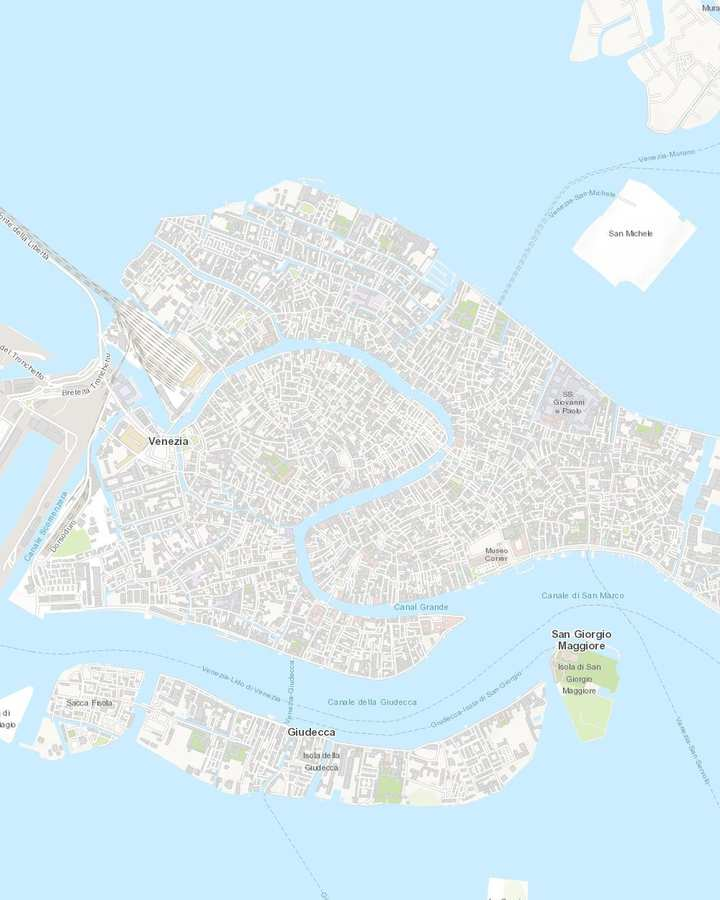
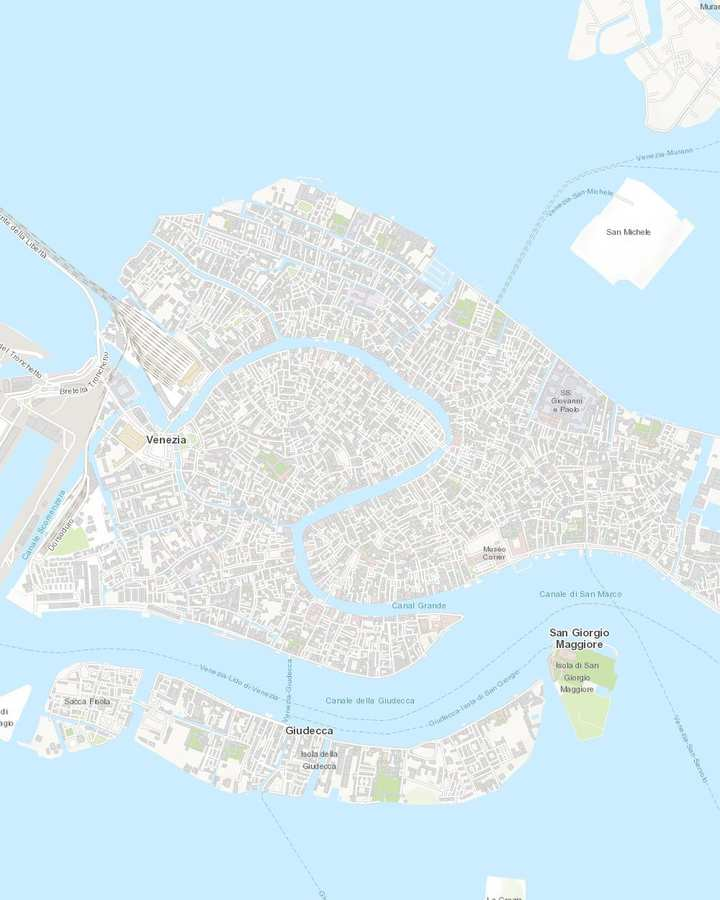
第 35 轮补：md 同步删 Arcicchetti，地图 7a 重画

diff --git a/index.html b/index.html
@@ -1701,18 +1701,17 @@ var MAPS2 = {
   "7a": {
     w:1000, h:1250,
     img:"maps/7a.jpg",
-    walk:[[682,745],[688,741],[693,738],[692,735],[690,732],[689,730],[687,727],[684,723],[680,714],[678,709],[676,707],[679,704],[677,703],[673,698],[662,690],[660,689],[660,686],[658,685],[649,678],[644,674],[646,671],[647,667],[643,665],[637,663],[633,661],[631,660],[633,655],[625,647],[627,644],[630,635],[626,632],[624,631],[620,626],[618,625],[613,621],[612,623],[614,623],[614,623],[612,622],[618,625],[620,626],[625,630],[624,632],[622,634],[619,636],[616,640],[615,642],[611,648],[608,650],[606,652],[604,654],[602,655],[600,657],[598,658],[596,659],[592,662],[590,663],[585,667],[585,667],[589,664],[592,662],[595,660],[597,659],[600,657],[602,655],[604,654],[606,652],[608,650],[610,648],[615,642],[616,640],[619,637],[622,634],[624,632],[625,630],[626,628],[628,626],[629,624],[631,622],[637,624],[642,625],[645,620],[647,612],[646,609],[647,599],[648,596],[648,593],[649,590],[647,584],[647,580],[647,576],[647,573],[649,572],[651,571],[656,570],[659,569],[663,568],[665,569],[667,567],[670,566],[672,565],[675,563],[680,561],[683,564],[685,562],[688,560],[691,559],[692,562],[696,564],[700,566],[704,563],[707,563],[714,564],[717,564],[728,568],[728,568],[718,565],[716,564],[709,563],[706,563],[704,562],[701,565],[696,564],[692,562],[691,559],[688,560],[685,562],[683,564],[681,560],[675,563],[672,565],[670,566],[667,567],[665,569],[663,568],[659,569],[656,570],[652,571],[650,572],[647,572],[647,575],[647,578],[647,583],[648,589],[648,593],[648,596],[647,599],[646,608],[647,611],[645,620],[644,625],[637,624],[631,622],[629,624],[628,626],[626,628],[625,630],[620,626],[618,625],[613,621],[612,623],[614,623],[728,568],[718,565],[716,564],[709,563],[706,563],[704,562],[701,565],[696,564],[692,562],[691,559],[688,560],[685,562],[683,564],[681,560],[675,563],[672,565],[670,566],[667,567],[665,569],[663,568],[659,569],[656,570],[652,571],[649,570],[646,568],[643,569],[641,568],[639,565],[638,563],[638,559],[634,559],[633,557],[634,555],[634,550],[629,549],[627,548],[618,543],[616,542],[611,539],[604,534],[599,531],[597,530],[594,538],[589,544],[587,546],[583,559],[581,558],[582,561],[574,562],[571,561],[569,559],[563,555],[561,553],[555,548],[546,558],[543,561],[541,565],[539,567],[536,572],[534,574],[527,573],[523,572],[521,571],[516,569],[511,566],[509,569],[504,576],[499,572],[497,571],[490,566],[488,568],[487,570],[482,579],[481,581],[479,584],[476,588],[475,590],[472,593],[468,597],[465,601],[460,595],[457,593],[453,598],[451,601],[449,604],[448,606],[442,611],[439,607],[437,608],[432,609],[425,611],[423,612],[420,614],[418,610],[409,614],[404,616],[399,616],[395,616],[388,616],[384,616],[373,614],[369,613],[366,613],[364,612],[359,611],[357,610],[355,609],[350,607],[347,614],[346,618],[340,622],[330,628],[320,624],[317,624],[299,626],[296,626],[292,627],[291,630],[290,632],[289,634],[288,637],[286,641],[284,640],[283,640],[283,640],[279,640],[280,633],[281,631],[283,628],[285,627],[287,626],[286,616],[284,609],[282,604],[280,600],[279,598],[278,596],[273,587],[272,585],[281,572],[285,566],[289,559],[295,550],[297,547],[299,544],[301,542],[303,541],[306,538],[318,528],[316,526],[315,524],[314,522],[312,519],[311,517],[310,515],[309,513],[298,519],[296,521],[290,514],[285,508],[280,503],[278,501],[276,503],[278,505],[277,505]],
-    walkBreaks:[37, 58, 115, 162, 286],
+    walk:[[679,742],[684,739],[690,736],[688,733],[687,730],[685,727],[684,724],[681,720],[677,711],[675,707],[673,705],[675,701],[670,696],[659,687],[657,686],[656,683],[646,675],[641,672],[643,668],[644,664],[640,663],[634,660],[630,659],[628,657],[629,653],[621,645],[623,642],[624,640],[627,632],[622,630],[621,628],[616,624],[615,622],[610,618],[608,620],[611,620],[611,620],[608,620],[610,618],[615,622],[616,624],[621,628],[620,630],[618,631],[616,633],[613,638],[612,640],[608,645],[604,648],[602,650],[600,651],[599,653],[596,654],[594,656],[591,658],[588,660],[585,662],[582,664],[582,664],[585,662],[587,661],[591,658],[593,657],[595,655],[599,653],[600,651],[602,650],[604,648],[607,646],[612,640],[613,638],[615,634],[618,631],[620,630],[621,628],[623,625],[625,623],[627,621],[634,621],[638,622],[640,623],[642,617],[644,609],[643,607],[644,597],[645,593],[645,590],[645,587],[644,581],[644,577],[644,574],[644,570],[646,569],[648,568],[653,567],[660,566],[664,565],[666,564],[669,562],[672,561],[677,558],[679,561],[682,559],[684,558],[687,556],[689,559],[693,562],[697,563],[700,560],[703,560],[706,560],[711,562],[714,562],[725,566],[725,566],[715,562],[712,562],[706,560],[703,560],[700,560],[697,563],[693,562],[689,559],[687,556],[684,558],[682,559],[679,561],[677,558],[672,561],[669,562],[666,564],[664,565],[661,566],[655,567],[649,568],[647,569],[645,570],[644,572],[643,576],[644,581],[645,587],[645,590],[645,593],[644,597],[643,606],[644,608],[642,617],[640,622],[634,621],[628,620],[626,622],[623,625],[621,628],[616,624],[615,622],[610,618],[608,620],[611,620]],
+    walkBreaks:[36, 58, 114],
     drive:[],
     driveBreaks:[],
     title:"D7 上午 威尼斯（1 号船 · 步行 · 贡多拉 · 2 号船回）",
     pins:[
-      {x:278,y:506,n:1,k:"transit",l:"Santa Lucia 站",m:"Venezia Santa Lucia",mo:"walking",leg:"1 号水上巴士 45 分"},
-      {x:684,y:749,n:2,k:"sight",l:"圣马可广场（看外观）",m:"Piazza San Marco Venezia",mo:"walking",leg:"步行 8 分 · Mercerie"},
-      {x:614,y:623,n:3,k:"sight",l:"里亚托桥 + 市场",m:"Ponte di Rialto Venezia",mo:"walking",leg:"步行 3 分到码头"},
-      {x:585,y:667,n:4,k:"transit",l:"贡多拉码头 Riva del Carbon",m:"Riva del Carbon Venezia",mo:"walking",leg:"步行 8 分"},
-      {x:728,y:568,n:5,k:"eat",l:"Osteria da Alberto",m:"Osteria da Alberto Venezia",mo:"walking",leg:"步行 8 分回里亚托码头 · 2 号船回站"},
-      {x:283,y:637,n:6,k:"eat",l:"Arcicchetti（可选）",m:"Arcicchetti Bakaro Campo dei Tolentini 183 Venezia",mo:"walking",leg:"步行 9 分回车站"}
+      {x:275,y:503,n:1,k:"transit",l:"Santa Lucia 站",m:"Venezia Santa Lucia",mo:"walking",leg:"1 号水上巴士 45 分"},
+      {x:681,y:747,n:2,k:"sight",l:"圣马可广场（看外观）",m:"Piazza San Marco Venezia",mo:"walking",leg:"步行 8 分 · Mercerie"},
+      {x:611,y:620,n:3,k:"sight",l:"里亚托桥 + 市场",m:"Ponte di Rialto Venezia",mo:"walking",leg:"步行 3 分到码头"},
+      {x:582,y:664,n:4,k:"transit",l:"贡多拉码头 Riva del Carbon",m:"Riva del Carbon Venezia",mo:"walking",leg:"步行 8 分"},
+      {x:725,y:566,n:5,k:"eat",l:"Osteria da Alberto",m:"Osteria da Alberto Venezia",mo:"walking",leg:"步行 8 分回里亚托码头 · 2 号船 10 分回站"}
     ]
   },
   "7b": {
